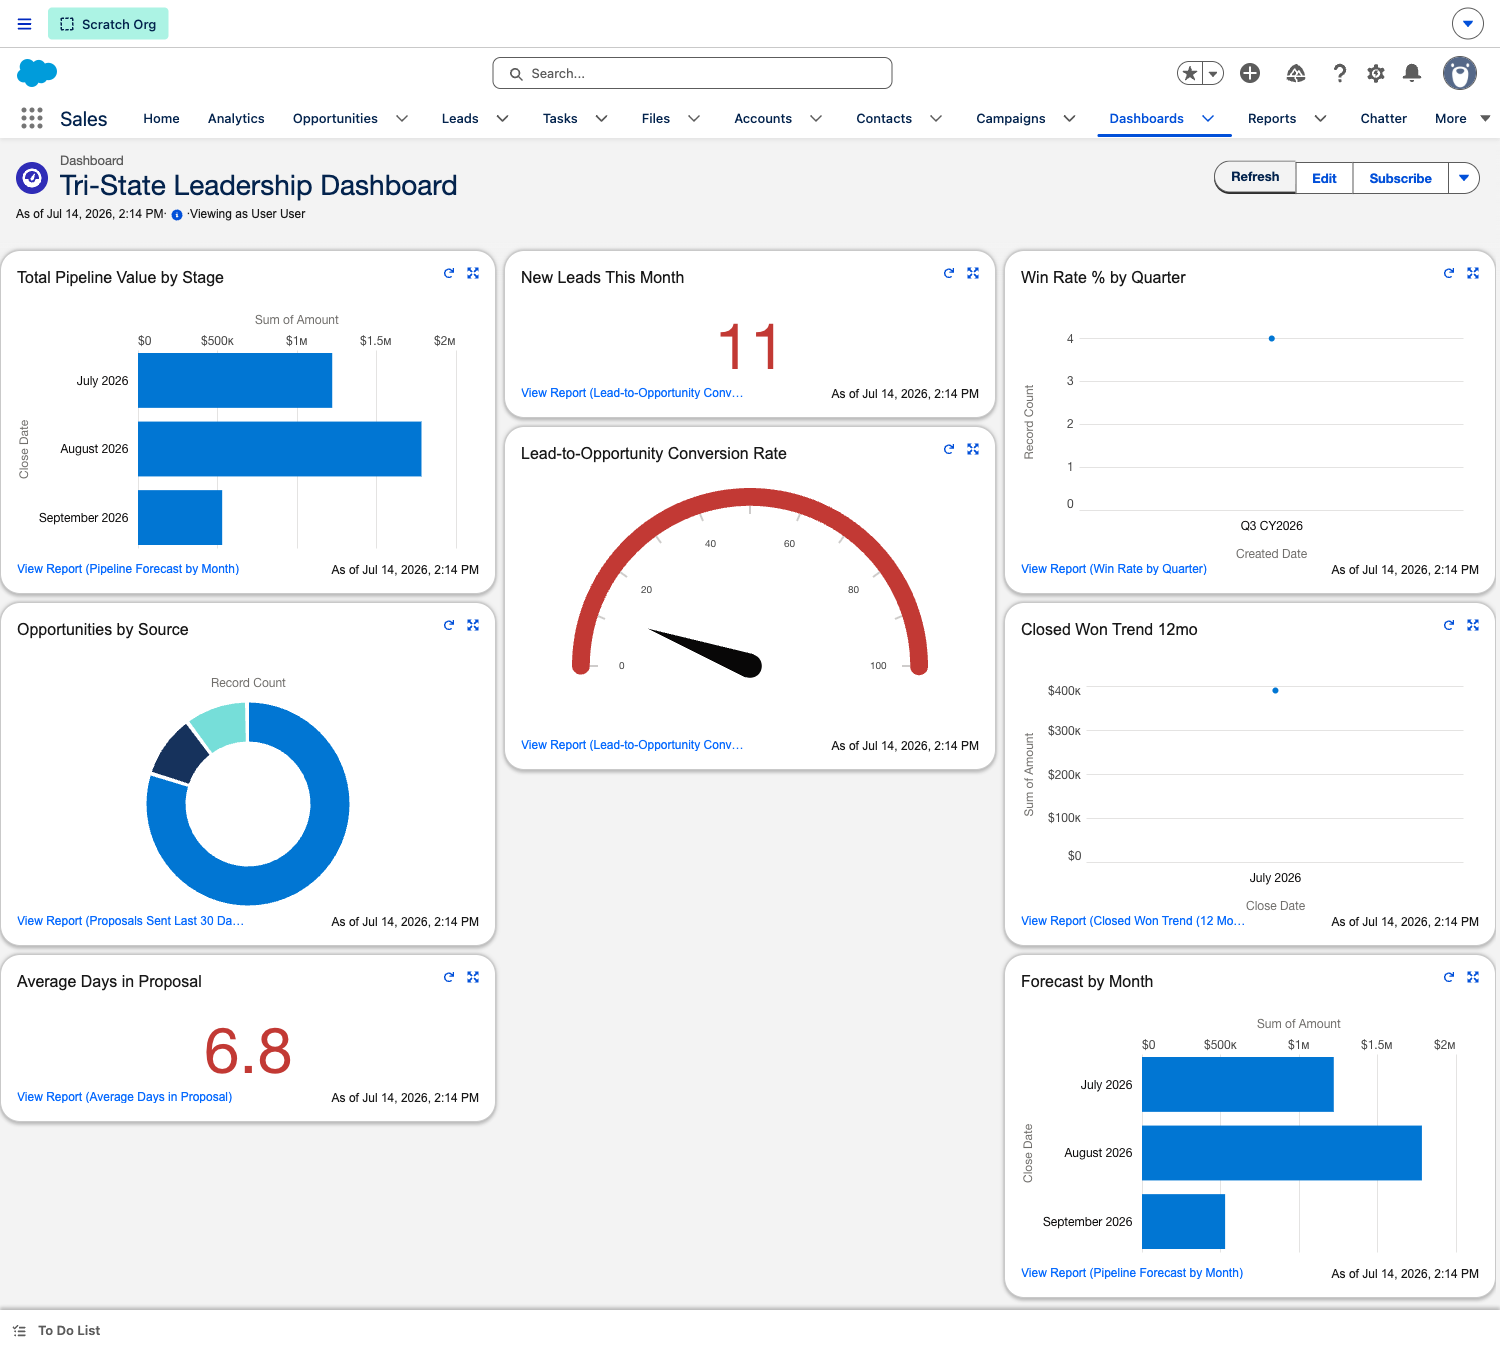
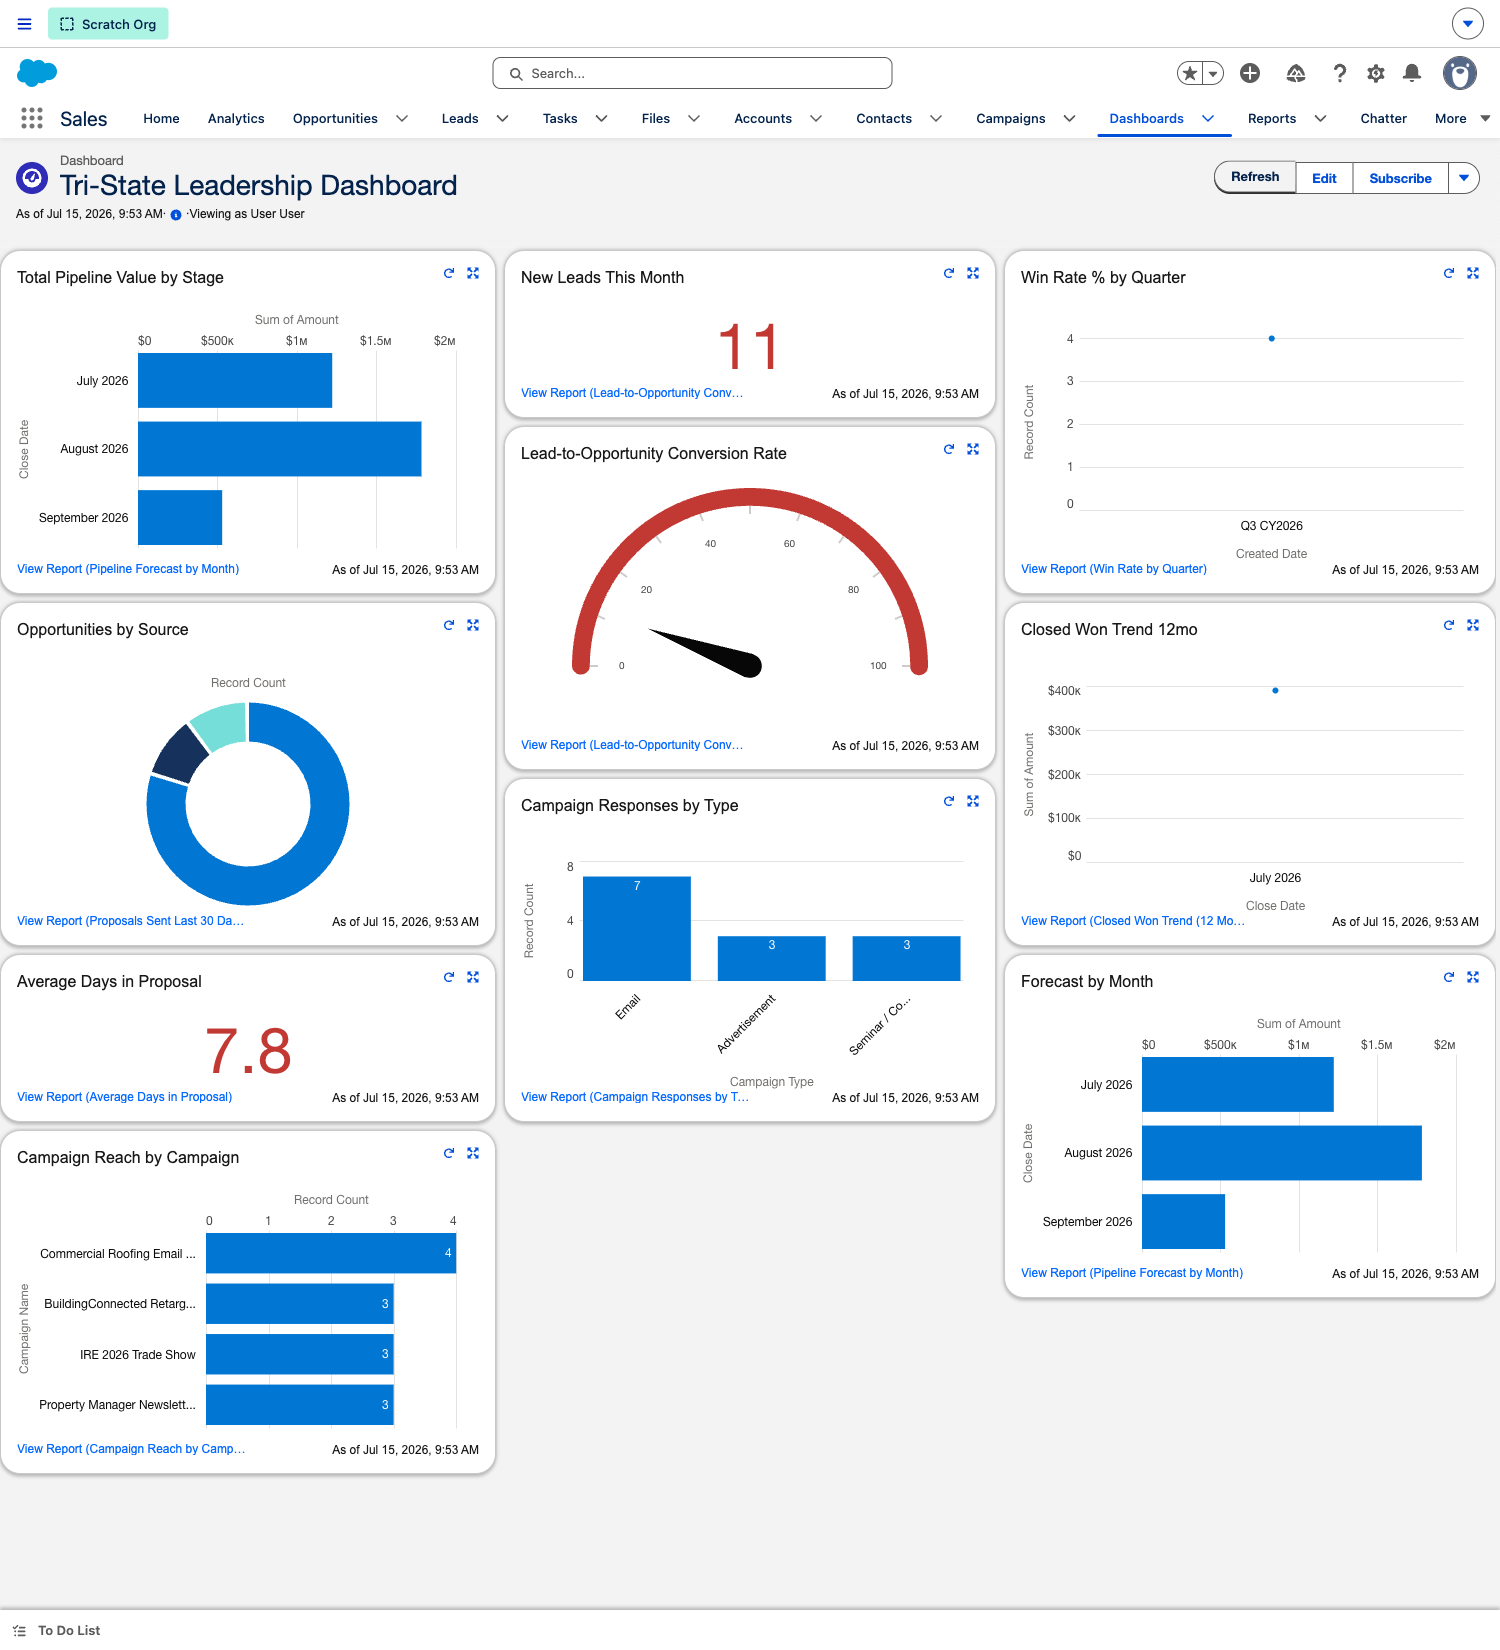
Add marketing capabilities: campaigns on contact, follow-up panel, marketing dashboard tiles

diff --git a/index.html b/index.html
@@ -194,12 +194,13 @@
   <div class="wrap">
     <p class="kicker">The walkthrough</p>
     <h2 class="title">Demo agenda</h2>
-    <p class="lead">Four stops, ~12 minutes: a deal on the path, the roof-evaluation detail, lead capture, and the leadership roll-up.</p>
+    <p class="lead">Five stops, ~15 minutes: a deal on the path, the roof-evaluation detail, lead capture, the leadership roll-up, and the marketing view.</p>
     <div class="agenda" style="margin-top:20px">
       <a href="#s1"><span class="t">A deal on the guided Sales Path</span><span class="d">Stage progression</span></a>
       <a href="#s2"><span class="t">Inside the deal — the roof evaluation</span><span class="d">Condition, scope, value</span></a>
       <a href="#s3"><span class="t">Lead capture from bidding platforms</span><span class="d">Prospect type &amp; platform</span></a>
-      <a href="#s4"><span class="t">The leadership dashboard</span><span class="d">Pipeline, forecast, conversion</span></a>
+      <a href="#s4"><span class="t">The leadership dashboard</span><span class="d">Pipeline, forecast, marketing</span></a>
+      <a href="#s5"><span class="t">Marketing on the contact record</span><span class="d">Campaigns &amp; follow-ups</span></a>
     </div>
   </div>
 </section>
@@ -315,7 +316,7 @@
           <h4>Click path</h4>
           <div class="clickpath">Dashboards → <b>Tri-State Leadership Dashboard</b> → <b>Refresh</b></div>
           <h4 style="margin-top:16px">Say this</h4>
-          <p class="say">"This is the whole pipeline on one screen — total value by close month, new leads, win rate, conversion, average days a proposal sits, and the 12-month closed-won trend. This is what tells you where the business is headed, refreshed on demand."</p>
+          <p class="say">"This is the whole business on one screen — pipeline by close month, new leads, win rate, conversion, average days a proposal sits, the 12-month closed-won trend, and — since marketing matters to you — campaign reach and response by channel. Refreshed on demand."</p>
         </div>
         <div class="col">
           <h4>Point out</h4>
@@ -324,6 +325,7 @@
             <li><b>New Leads This Month &amp; Conversion Rate</b> — the top of the funnel, live.</li>
             <li><b>Average Days in Proposal (6.8)</b> — how fast deals move once a proposal's out.</li>
             <li><b>Win Rate &amp; Closed Won Trend</b> — the results, quarter over quarter.</li>
+            <li><b>Campaign Reach &amp; Responses by Type</b> — marketing performance across BuildingConnected, email, and trade shows, right alongside sales.</li>
           </ul>
         </div>
       </div>
@@ -331,8 +333,36 @@
   </div>
 </section>
 
-<!-- SALES PATH -->
+<!-- STEP 5 - MARKETING -->
 <section class="alt">
+  <div class="wrap">
+    <div class="step" id="s5">
+      <div class="step-h"><div class="step-num">5</div><div><h3>Marketing on the contact record</h3><div class="sh-sub">Contacts → a contact → Related + Activity</div></div></div>
+      <img class="shot" src="screenshots/contact-related.png" alt="Contact record showing Campaign History and the follow-up activity panel">
+      <div class="step-cols">
+        <div class="col">
+          <h4>Click path</h4>
+          <div class="clickpath">Contacts → <b>Elena Cho (Harborview Property Group)</b><br>→ <b>Campaign History</b> related list + the <b>Activity</b> panel</div>
+          <h4 style="margin-top:16px">Say this</h4>
+          <p class="say">"Because marketing matters here, every contact shows the campaigns they've touched — which email, which trade show, whether they responded — right on the record. And the activity panel keeps the follow-up cadence front and center, so a relationship never goes quiet."</p>
+        </div>
+        <div class="col">
+          <h4>Point out</h4>
+          <ul class="points">
+            <li><b>Campaign History</b> — every campaign the contact is a member of, with type and response status (Responded / Sent).</li>
+            <li><b>Add to Campaign</b> — one click to enroll a contact in a new outreach.</li>
+            <li><b>Activity / Follow-Up panel</b> — upcoming and past touches (e.g., "Follow up on roof proposal", "Thank-you + referral ask") — the nurture cadence in place of a manual reminder list.</li>
+            <li><b>Ties to the dashboard</b> — these campaign memberships feed the Campaign Reach &amp; Responses tiles on the Leadership dashboard.</li>
+          </ul>
+          <p class="note" style="margin-top:14px">Full Sales Engagement <em>Cadences</em> aren't enabled on this trial; the Activity/follow-up panel is the equivalent here and enabling Cadences is a fast production add.</p>
+        </div>
+      </div>
+    </div>
+  </div>
+</section>
+
+<!-- SALES PATH -->
+<section>
   <div class="wrap">
     <p class="kicker">Reference</p>
     <h2 class="title">The Tri-State Sales Path</h2>
@@ -361,7 +391,8 @@
       <tr><td><b>Lead fields</b></td><td>Prospect Type, Bidding Platform, Lead Source Detail, Evaluation Status.</td></tr>
       <tr><td><b>Quick actions &amp; flows</b></td><td>Log Roof Evaluation, Send Proposal; flows auto-create follow-up &amp; stale-deal tasks.</td></tr>
       <tr><td><b>Reports &amp; dashboard</b></td><td>8 reports + the Tri-State Leadership Dashboard (pipeline, forecast, conversion, win rate, proposal aging).</td></tr>
-      <tr><td><b>Demo data</b></td><td>Conor + a second estimator · 9 building/owner accounts · 17 deals across all stages (~$3.1M open) · 11 bidding-platform leads · roof evaluations &amp; logged activity.</td></tr>
+      <tr><td><b>Marketing</b></td><td>4 campaigns (BuildingConnected, email, IRE trade show, newsletter) with members on the Contact's Campaign History; 2 marketing tiles (Campaign Reach, Responses by Type) on the Leadership dashboard.</td></tr>
+      <tr><td><b>Demo data</b></td><td>Conor + a second estimator · 9 building/owner accounts · 17 deals across all stages (~$3.1M open) · 11 bidding-platform leads · 4 campaigns / 13 members · roof evaluations &amp; logged activity.</td></tr>
     </table>
   </div>
 </section>
